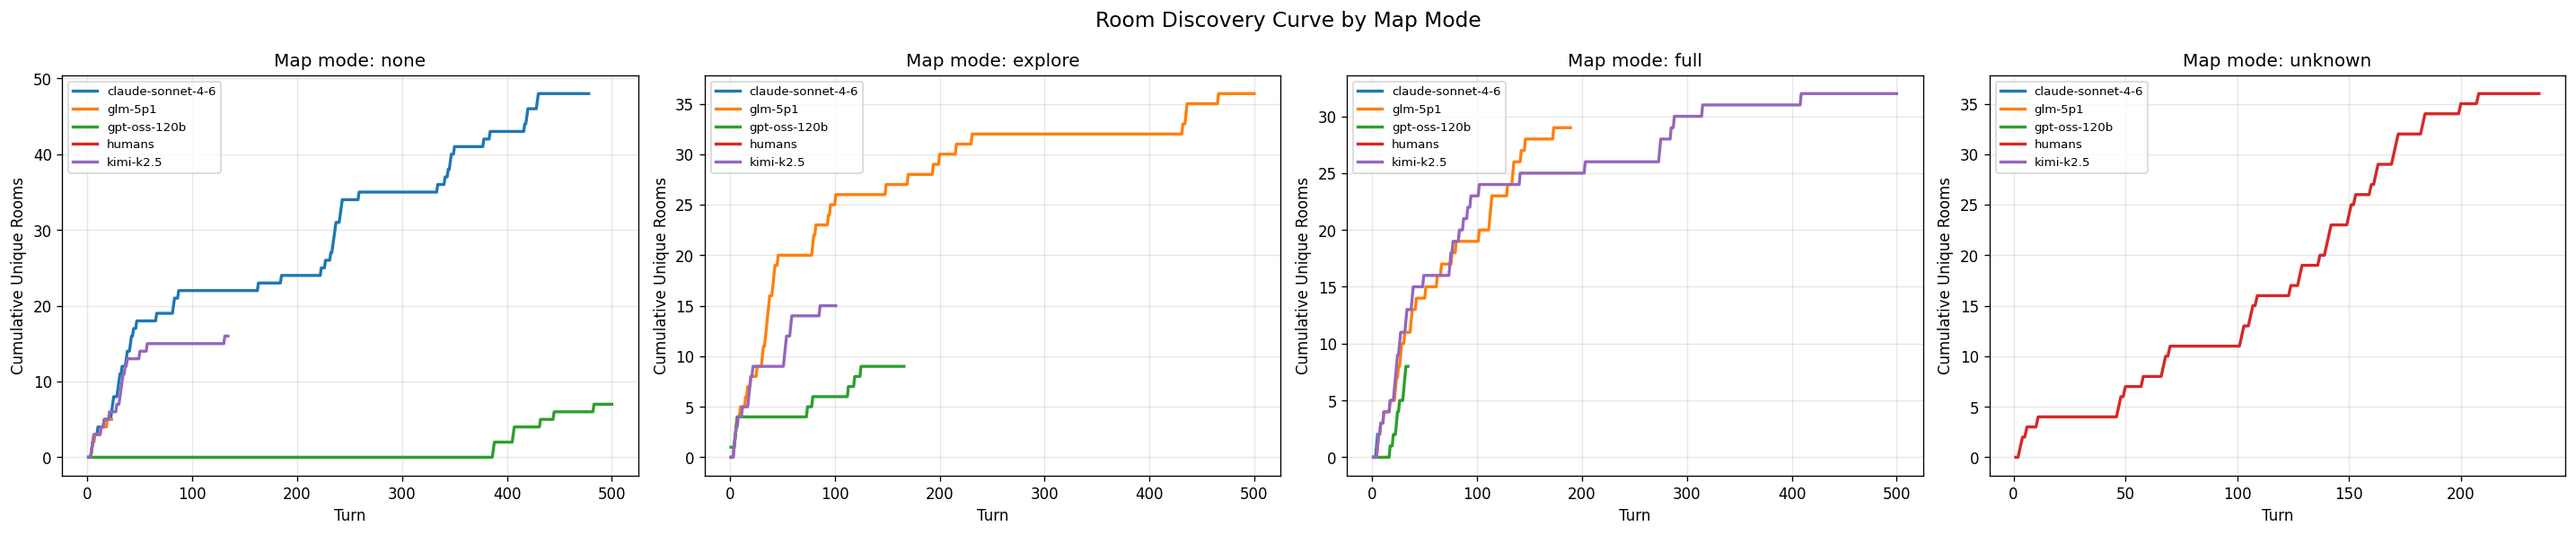
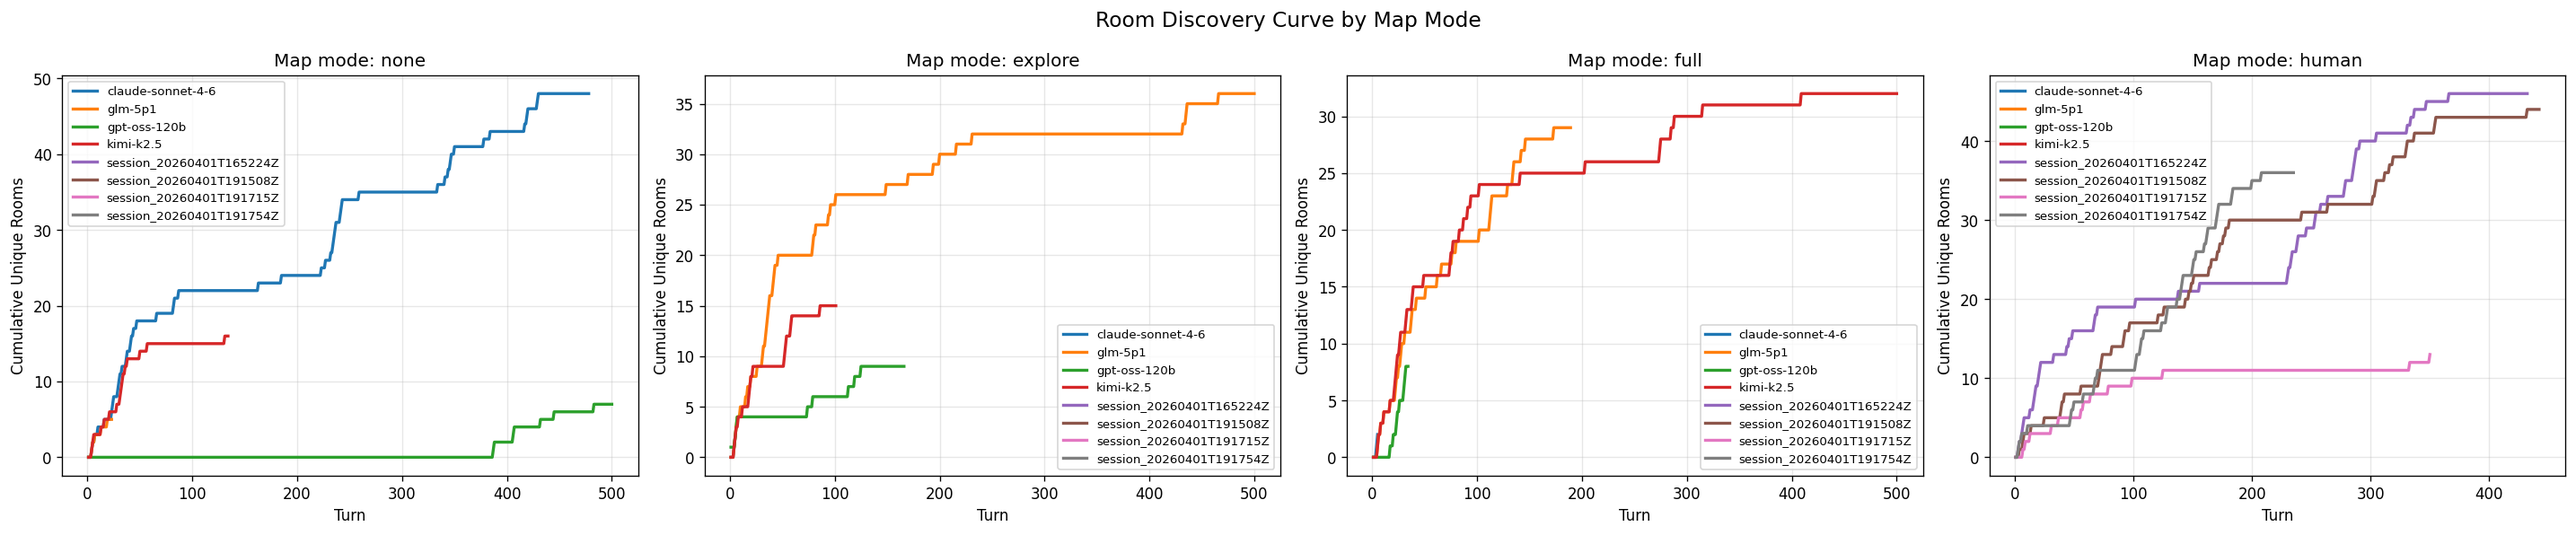
Surface Found and Deposit columns; give humans their own table
Item #3 of the zork-bench roadmap (analysis piece).

analyze.py and leaderboard.py both grow two new columns: Found (took
with 'take') and Deposit (placed in trophy case). Detection runs over
(command, output) per turn via the shared find_treasure_events helper,
so old session files logged before treasure tracking landed still
produce real numbers in the tables without requiring a benchmark
re-run.

Also fixes a pre-existing formatting issue exposed by the new columns:
human sessions were being crammed into the model x map_mode matrix as
a single row labeled 'humans' under map_mode='unknown', and only the
most recent human session was loaded per directory. Now:

  - load_all_sessions loads every human session individually instead
    of one per leaf dir, since each human playthrough is its own
    distinct attempt.
  - The matrix table excludes humans entirely (they have no map_mode
    and aren't a model). The 'unknown' column is gone with them.
  - A new print_humans_table prints all human sessions ranked by
    max score with the same Found/Deposit columns, mirroring the
    leaderboard's layout so the two tools agree.

CSV adds treasures_found_count and treasures_deposited_count; charts
regenerated against the same data.

Output now reveals the carry-limit puzzle at a glance: claude-sonnet
finds 7 treasures but only manages to deposit 6, while glm-5p1 and
kimi-k2.5 find 1-3 treasures and deposit zero (never figured out the
[…]

diff --git a/benchmark/analyze.py b/benchmark/analyze.py
@@ -57,41 +57,60 @@ def _most_recent_jsonl(directory: Path) -> Path | None:
     return max(candidates, key=lambda p: p.stat().st_mtime)
 
 
+def _is_human_session(parsed: dict[str, Any]) -> bool:
+    """Treat a session as human if its header says so. Falls back to backend."""
+    header = parsed.get("header") or {}
+    return header.get("player_type") == "human" or header.get("backend") == "human"
+
+
 def load_all_sessions(results_dir: Path) -> list[dict[str, Any]]:
-    """Walk results_dir, find one JSONL per leaf directory, return parsed sessions."""
+    """Walk results_dir and return parsed sessions.
+
+    AI sessions: layout is results/<model>/<map_mode>/session_*.jsonl. We pick
+    the most recent session per leaf directory so each (model, map_mode) cell
+    in the matrix has exactly one row.
+
+    Human sessions: layout is results/humans/session_*.jsonl. We load every
+    session so each playthrough appears as its own row in the humans table
+    (same behavior as leaderboard.py).
+    """
     sessions = []
 
     # Collect all directories that contain at least one session_*.jsonl file.
-    # results_dir layout: results/<model>/<map_mode>/session_*.jsonl
     seen_dirs: set[Path] = set()
     for jsonl_path in sorted(results_dir.rglob("session_*.jsonl")):
-        parent = jsonl_path.parent
-        if parent not in seen_dirs:
-            seen_dirs.add(parent)
+        seen_dirs.add(jsonl_path.parent)
 
     for directory in sorted(seen_dirs):
-        jsonl_path = _most_recent_jsonl(directory)
-        if jsonl_path is None:
-            continue
-
-        # Derive model and map_mode from path relative to results_dir.
-        # Expected structure: results/<model>/<map_mode>/session_*.jsonl
         rel = directory.relative_to(results_dir)
         parts = rel.parts
-        if len(parts) >= 2:
-            model_nickname = parts[0]
-            map_mode = parts[1]
-        elif len(parts) == 1:
-            model_nickname = parts[0]
-            map_mode = "unknown"
-        else:
-            model_nickname = "unknown"
-            map_mode = "unknown"
+        is_humans_dir = parts == ("humans",)
 
-        parsed = _parse_jsonl(jsonl_path)
-        parsed["model_nickname"] = model_nickname
-        parsed["map_mode_dir"] = map_mode
-        sessions.append(parsed)
+        if is_humans_dir:
+            # Every human playthrough is its own row.
+            paths = sorted(directory.glob("session_*.jsonl"))
+        else:
+            recent = _most_recent_jsonl(directory)
+            paths = [recent] if recent is not None else []
+
+        for jsonl_path in paths:
+            # Derive model and map_mode from the path. AI dirs use
+            # <model>/<mode>; the humans dir has no map_mode subdir, so we
+            # mark the row 'humans' / 'human' for the table grouping.
+            if is_humans_dir:
+                model_nickname = jsonl_path.stem  # session_<timestamp>
+                map_mode = "human"
+            elif len(parts) >= 2:
+                model_nickname, map_mode = parts[0], parts[1]
+            elif len(parts) == 1:
+                model_nickname, map_mode = parts[0], "unknown"
+            else:
+                model_nickname, map_mode = "unknown", "unknown"
+
+            parsed = _parse_jsonl(jsonl_path)
+            parsed["model_nickname"] = model_nickname
+            parsed["map_mode_dir"] = map_mode
+            sessions.append(parsed)
 
     return sessions
 
@@ -239,6 +258,23 @@ def compute_metrics(session: dict[str, Any]) -> dict[str, Any]:
     # --- Phantom rooms ---
     phantom_rooms: list[str] = summary.get("phantom_rooms") or []
 
+    # --- Treasures (roadmap item #3) ---
+    # Two metrics, two puzzles: "found" (took with `take`) and "deposited"
+    # (put in trophy case despite Zork's tight carry limit). Prefer summary
+    # aggregates when present; fall back to detection over (command, output)
+    # so old session files still produce numbers without re-running.
+    treasures_found: list[str] = summary.get("treasures_found") or []
+    treasures_deposited: list[str] = summary.get("treasures_deposited") or []
+    if not treasures_found and not treasures_deposited and turns:
+        try:
+            from zork_harness.treasures import find_treasure_events  # noqa: PLC0415
+        except ImportError:
+            find_treasure_events = None  # type: ignore[assignment]
+        if find_treasure_events is not None:
+            found_set, deposited_set = find_treasure_events(turns)
+            treasures_found = sorted(found_set)
+            treasures_deposited = sorted(deposited_set)
+
     return {
         # Identity
         "model": model_nickname,
@@ -248,6 +284,8 @@ def compute_metrics(session: dict[str, Any]) -> dict[str, Any]:
         "game": header.get("game", ""),
         "started_at": header.get("started_at", ""),
         "session_file": str(session["path"]),
+        "player_type": header.get("player_type")
+                       or ("human" if header.get("backend") == "human" else "llm"),
         # Scores
         "final_score": final_score,
         "max_score": max_score,
@@ -282,6 +320,11 @@ def compute_metrics(session: dict[str, Any]) -> dict[str, Any]:
         # Misc
         "phantom_rooms": phantom_rooms,
         "phantom_room_count": len(phantom_rooms),
+        # Treasures
+        "treasures_found": treasures_found,
+        "treasures_deposited": treasures_deposited,
+        "treasures_found_count": len(treasures_found),
+        "treasures_deposited_count": len(treasures_deposited),
     }
 
 
@@ -306,7 +349,15 @@ def _format_float(v: float | None, decimals: int = 2) -> str:
 
 
 def print_console_table(metrics_list: list[dict[str, Any]]) -> None:
-    """Print a model x map_mode matrix with Score, Rooms, Deaths, Tokens."""
+    """Print a model x map_mode matrix with Score, Rooms, Deaths, Tokens.
+
+    Humans are excluded from this matrix because they have no map_mode and
+    aren't a model. They get their own table via print_humans_table().
+    """
+    metrics_list = [m for m in metrics_list if m.get("player_type") != "human"]
+    if not metrics_list:
+        return
+
     # Gather unique models and map_modes in a stable order
     models = sorted({m["model"] for m in metrics_list})
     map_modes_present = {m["map_mode"] for m in metrics_list}
@@ -321,7 +372,8 @@ def print_console_table(metrics_list: list[dict[str, Any]]) -> None:
     # Column widths
     model_col_w = max(len("Model"), max(len(m) for m in models))
     map_col_w = max(len(mm) for mm in map_modes) if map_modes else 7
-    cell_w = 36  # "Score Rooms Deaths Malfrm Tokens" per map_mode header
+    # Per-map-mode cell carries: Score Rooms Deaths Malfrm Tokens Found Depos
+    cell_w = 49
 
     # Header row 1: map_modes
     header1 = f"{'Model':<{model_col_w}}"
@@ -333,7 +385,8 @@ def print_console_table(metrics_list: list[dict[str, Any]]) -> None:
     # Header row 2: metric labels
     header2 = " " * model_col_w
     for _ in map_modes:
-        header2 += f"  {'Score':>6} {'Rooms':>5} {'Deaths':>6} {'Malfrm':>6} {'Tokens':>8}"
+        header2 += (f"  {'Score':>6} {'Rooms':>5} {'Deaths':>6} "
+                    f"{'Malfrm':>6} {'Tokens':>8} {'Found':>5} {'Depos':>5}")
     print(header2)
 
     # Separator
@@ -346,16 +399,55 @@ def print_console_table(metrics_list: list[dict[str, Any]]) -> None:
         for mm in map_modes:
             m = lookup.get((model, mm))
             if m is None:
-                row += f"  {'—':>6} {'—':>5} {'—':>6} {'—':>6} {'—':>8}"
+                row += f"  {'—':>6} {'—':>5} {'—':>6} {'—':>6} {'—':>8} {'—':>5} {'—':>5}"
             else:
                 score = m["final_score"] if m["final_score"] is not None else "—"
                 rooms = m["unique_rooms"] if m["unique_rooms"] is not None else "—"
                 deaths = m["total_deaths"]
                 malformed = m["malformed_turns"]
                 tokens = _format_tokens(m["total_tokens"])
-                row += f"  {str(score):>6} {str(rooms):>5} {str(deaths):>6} {str(malformed):>6} {tokens:>8}"
+                # Found = took with `take`; Depos = placed in trophy case.
+                # The gap between them is the inventory-management puzzle.
+                found = m["treasures_found_count"]
+                depos = m["treasures_deposited_count"]
+                row += (f"  {str(score):>6} {str(rooms):>5} {str(deaths):>6} "
+                        f"{str(malformed):>6} {tokens:>8} {found:>5} {depos:>5}")
         print(row)
 
+    print()
+
+
+def print_humans_table(metrics_list: list[dict[str, Any]]) -> None:
+    """Print a flat table of human playthroughs ranked by max score.
+
+    Humans don't fit the model x map_mode matrix (no map_mode, not a model),
+    so they get their own section. Mirrors the layout used by leaderboard.py
+    so the two tools agree.
+    """
+    humans = [m for m in metrics_list if m.get("player_type") == "human"]
+    if not humans:
+        return
+
+    humans.sort(key=lambda m: -(m["max_score"] or 0))
+
+    print()
+    print("Humans")
+    header = (f"{'Player':<8} {'Turns':>6} {'MaxScore':>9} {'Rooms':>6} "
+              f"{'Found':>6} {'Deposit':>8}  Session")
+    print(header)
+    print("-" * len(header))
+    for i, m in enumerate(humans, start=1):
+        # Pull session timestamp out of the path for the trailing label.
+        session_stem = Path(m["session_file"]).stem
+        print(
+            f"{'human ' + str(i):<8} "
+            f"{m['total_turns']:>6} "
+            f"{(m['max_score'] or 0):>9} "
+            f"{m['unique_rooms']:>6} "
+            f"{m['treasures_found_count']:>6} "
+            f"{m['treasures_deposited_count']:>8}  "
+            f"{session_stem}"
+        )
     print()
 
 
@@ -378,6 +470,7 @@ def write_csv(metrics_list: list[dict[str, Any]], output_path: Path) -> None:
         "mean_thinking_chars_per_turn", "thinking_turn_fraction",
         "tool_calls_per_turn", "malformed_turns", "malformed_tokens",
         "phantom_room_count",
+        "treasures_found_count", "treasures_deposited_count",
     ]
 
     # Add one column per tool type seen across all sessions
@@ -669,8 +762,9 @@ def main() -> None:
 
     metrics_list = [compute_metrics(s) for s in sessions]
 
-    # --- Console table ---
+    # --- Console tables (AI matrix + Humans flat) ---
     print_console_table(metrics_list)
+    print_humans_table(metrics_list)
 
     # --- CSV ---
     csv_path = results_dir / "benchmark_results.csv"

diff --git a/benchmark/leaderboard.py b/benchmark/leaderboard.py
@@ -37,12 +37,17 @@ def _load(path: Path) -> tuple[dict | None, list[dict]]:
     return header, turns
 
 
-def _stats(turns: list[dict]) -> tuple[int, int, int, float | None]:
-    """Return (n_turns, max_score, unique_rooms, mean_tokens_per_turn).
+def _stats(turns: list[dict]) -> tuple[int, int, int, float | None, int, int]:
+    """Return (n_turns, max_score, unique_rooms, mean_tokens_per_turn,
+    treasures_found, treasures_deposited).
 
     mean_tokens_per_turn is None when no turn logged token usage (e.g. human
-    sessions); callers render this as '-'.
+    sessions); callers render this as '-'. Treasure counts come from
+    find_treasure_events which detects directly from (command, output) so
+    sessions logged before treasure tracking landed still show real numbers.
     """
+    from zork_harness.treasures import find_treasure_events
+
     scores = [t.get("score") for t in turns if t.get("score") is not None]
     rooms = {t.get("room") for t in turns if t.get("room")}
     token_turns = [
@@ -51,7 +56,10 @@ def _stats(turns: list[dict]) -> tuple[int, int, int, float | None]:
         if t.get("input_tokens") is not None or t.get("output_tokens") is not None
     ]
     mean_tpt: float | None = sum(token_turns) / len(token_turns) if token_turns else None
-    return len(turns), max(scores) if scores else 0, len(rooms), mean_tpt
+
+    found, deposited = find_treasure_events(turns)
+    return (len(turns), max(scores) if scores else 0, len(rooms), mean_tpt,
+            len(found), len(deposited))
 
 
 def _is_human_session(header: dict | None) -> bool:
@@ -83,9 +91,11 @@ def _fmt_tpt(tpt: float | None) -> str:
 
 
 def build_leaderboard(results_dir: Path, min_turns: int = 0):
-    # Rows: (model, mode, turns, max_score, rooms, mean_tokens_per_turn)
+    # Rows: (model, mode, turns, max_score, rooms, mean_tokens_per_turn,
+    #        treasures_found, treasures_deposited)
     ai_rows: list[tuple] = []
-    # Rows: (turns, max_score, rooms, mean_tokens_per_turn, session_name)
+    # Rows: (turns, max_score, rooms, mean_tokens_per_turn,
+    #        treasures_found, treasures_deposited, session_name)
     human_rows: list[tuple] = []
 
     # AI runs: pick the longest session per <model>/<mode>/ directory
@@ -98,10 +108,10 @@ def build_leaderboard(results_dir: Path, min_turns: int = 0):
         if len(parts) < 3:
             continue  # not <model>/<mode>/session.jsonl
         model, mode = parts[0], parts[1]
-        n_turns, max_score, rooms, mean_tpt = _stats(turns)
+        n_turns, max_score, rooms, mean_tpt, found, deposited = _stats(turns)
         if n_turns < min_turns:
             continue
-        ai_rows.append((model, mode, n_turns, max_score, rooms, mean_tpt))
+        ai_rows.append((model, mode, n_turns, max_score, rooms, mean_tpt, found, deposited))
 
     # Human runs: every non-empty human session
     humans_dir = results_dir / "humans"
@@ -110,29 +120,35 @@ def build_leaderboard(results_dir: Path, min_turns: int = 0):
             header, turns = _load(path)
             if not _is_human_session(header) and header is not None:
                 continue
-            n_turns, max_score, rooms, mean_tpt = _stats(turns)
+            n_turns, max_score, rooms, mean_tpt, found, deposited = _stats(turns)
             if n_turns < min_turns:
                 continue
-            human_rows.append((n_turns, max_score, rooms, mean_tpt, path.stem))
+            human_rows.append((n_turns, max_score, rooms, mean_tpt, found, deposited, path.stem))
 
     ai_rows.sort(key=lambda r: -r[3])
     human_rows.sort(key=lambda r: -r[1])
 
-    header = f"{'Player':<22} {'Mode':<10} {'Turns':>6} {'MaxScore':>9} {'Rooms':>6} {'Tok/turn':>9}"
+    # Two separate columns: Found (took with `take`) and Deposit (placed in
+    # trophy case). The gap between them is the inventory-management puzzle.
+    header = (f"{'Player':<22} {'Mode':<10} {'Turns':>6} {'MaxScore':>9} "
+              f"{'Rooms':>6} {'Tok/turn':>9} {'Found':>6} {'Deposit':>8}")
     sep = "-" * len(header)
 
     print(f"\n=== AI Models (min turns: {min_turns}) ===\n")
     print(header)
     print(sep)
-    for model, mode, n_turns, max_score, rooms, mean_tpt in ai_rows:
-        print(f"{model:<22} {mode:<10} {n_turns:>6} {max_score:>9} {rooms:>6} {_fmt_tpt(mean_tpt):>9}")
+    for model, mode, n_turns, max_score, rooms, mean_tpt, found, deposited in ai_rows:
+        print(f"{model:<22} {mode:<10} {n_turns:>6} {max_score:>9} {rooms:>6} "
+              f"{_fmt_tpt(mean_tpt):>9} {found:>6} {deposited:>8}")
 
     print(f"\n=== Humans (min turns: {min_turns}) ===\n")
-    human_header = f"{'Player':<22} {'Turns':>6} {'MaxScore':>9} {'Rooms':>6} {'Tok/turn':>9}  Session"
+    human_header = (f"{'Player':<22} {'Turns':>6} {'MaxScore':>9} {'Rooms':>6} "
+                    f"{'Tok/turn':>9} {'Found':>6} {'Deposit':>8}  Session")
     print(human_header)
     print("-" * len(human_header))
-    for i, (n_turns, max_score, rooms, mean_tpt, session_name) in enumerate(human_rows, start=1):
-        print(f"{'human ' + str(i):<22} {n_turns:>6} {max_score:>9} {rooms:>6} {_fmt_tpt(mean_tpt):>9}  {session_name}")
+    for i, (n_turns, max_score, rooms, mean_tpt, found, deposited, session_name) in enumerate(human_rows, start=1):
+        print(f"{'human ' + str(i):<22} {n_turns:>6} {max_score:>9} {rooms:>6} "
+              f"{_fmt_tpt(mean_tpt):>9} {found:>6} {deposited:>8}  {session_name}")
     print()
 
 
